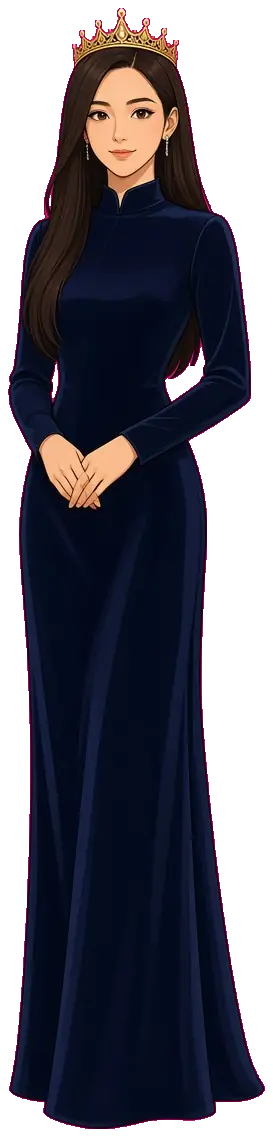
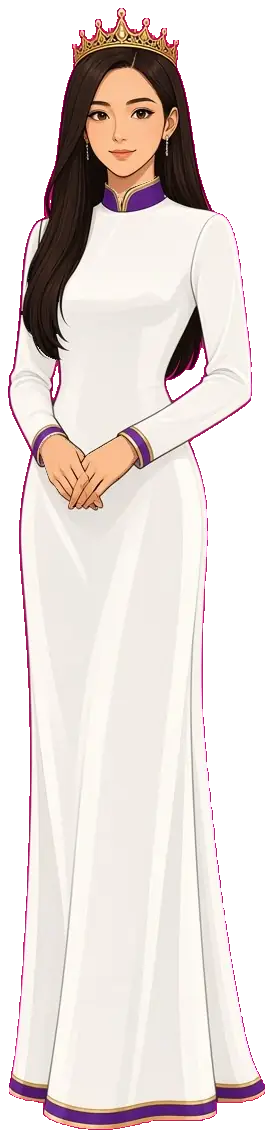
Change the galaxy queen's gown to white with purple-gold trim.
Her face, expression, black hair, and crown stay. The midnight-blue dress is replaced by a white gown with purple and gold edging.

diff --git a/prototype/teammate-type/app.js b/prototype/teammate-type/app.js
@@ -292,7 +292,7 @@ export const TYPES = {
       gentle: "你把這場的中心放得很輕，人卻願意靠過來。",
       literary: "「不是大聲，是這一圈終於有了中心。」",
       strength: "定得住場，也讓人想站到你旁邊。",
-      alt: "黑長直髮、深棕眼睛、戴細金冠、穿午夜藍長裙的人",
+      alt: "黑長直髮、深棕眼睛、戴細金冠、穿白底紫金邊長裙的人",
     },
     en: {
       name: "Daughter of the Galaxy",
@@ -301,7 +301,7 @@ export const TYPES = {
       gentle: "You set the center of the room so lightly that people still come closer.",
       literary: "\"Not louder. This circle finally has a center.\"",
       strength: "Holds the room, and makes people want to stand beside you.",
-      alt: "A black-haired woman with dark brown eyes, a slim gold crown, and a floor-length midnight gown",
+      alt: "A black-haired woman with dark brown eyes, a slim gold crown, and a floor-length white gown with purple-gold trim",
     },
   },
   andromeda: {
